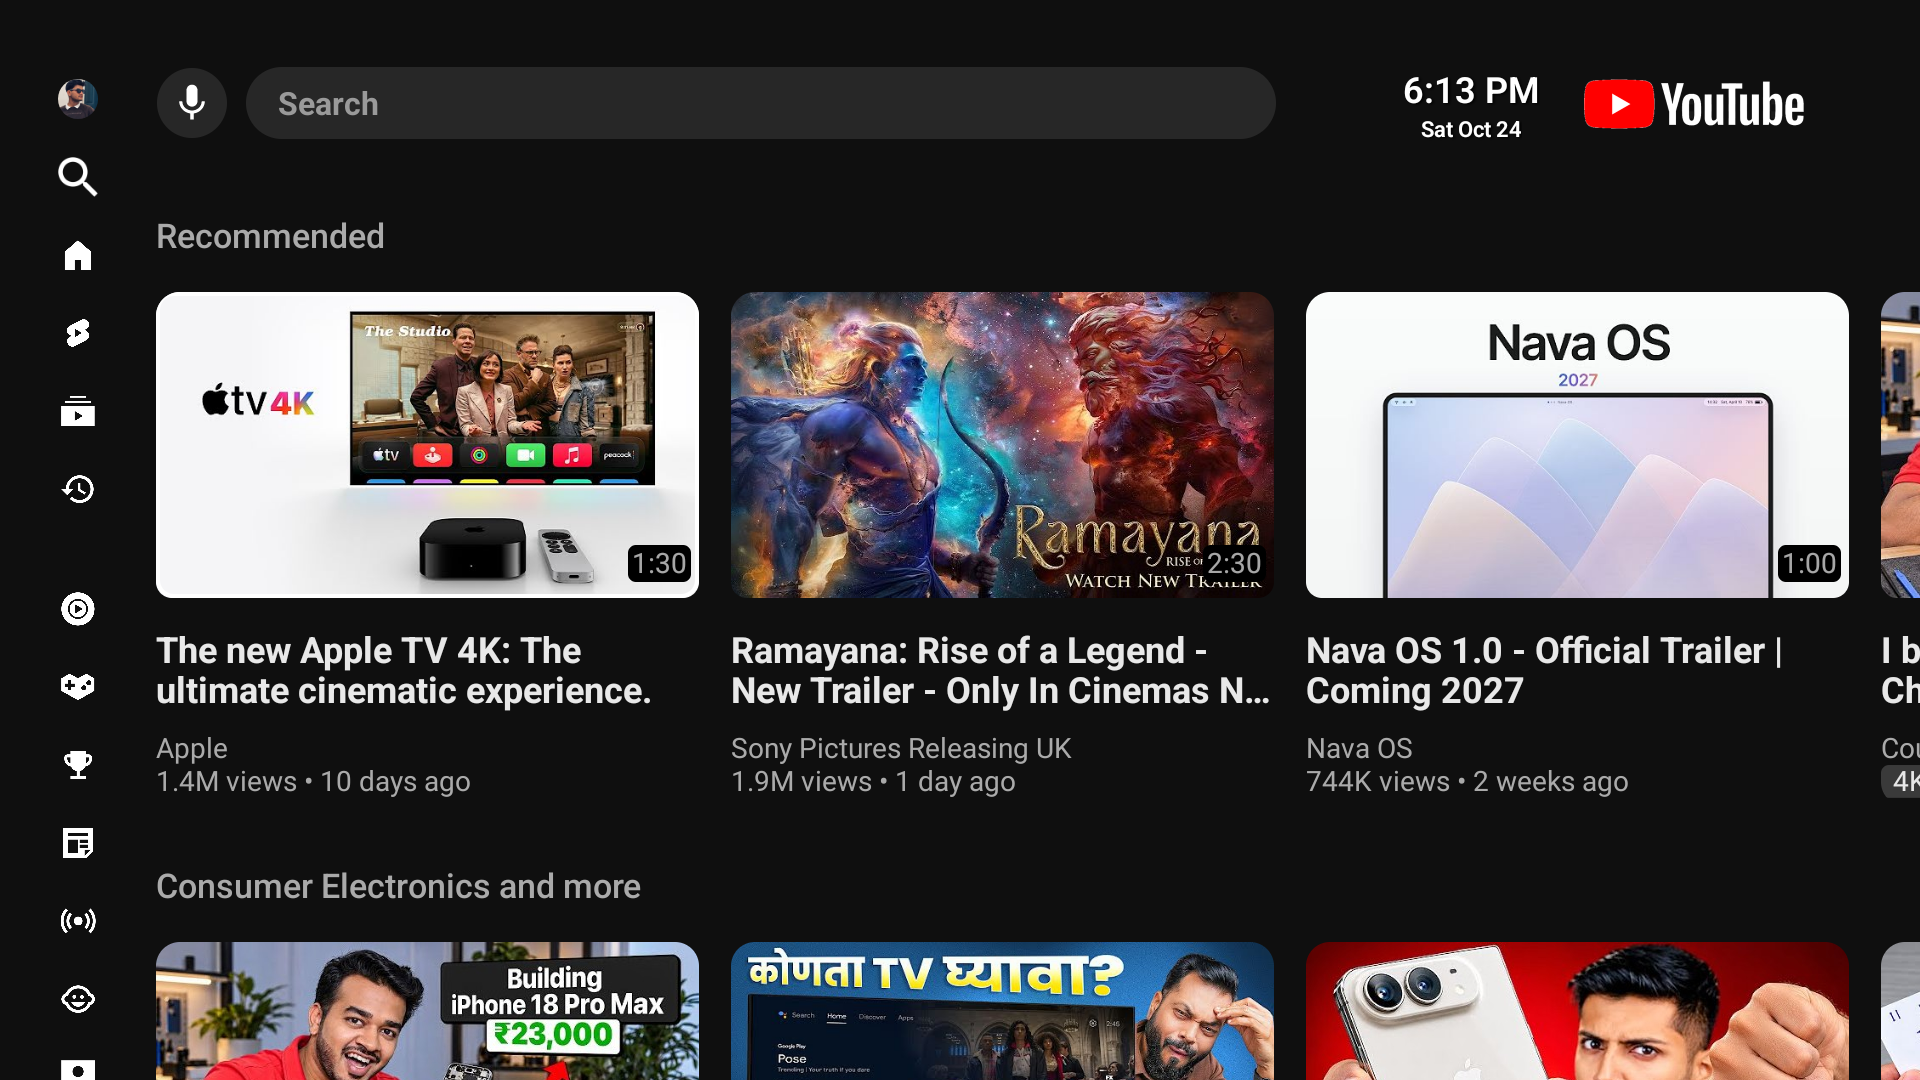
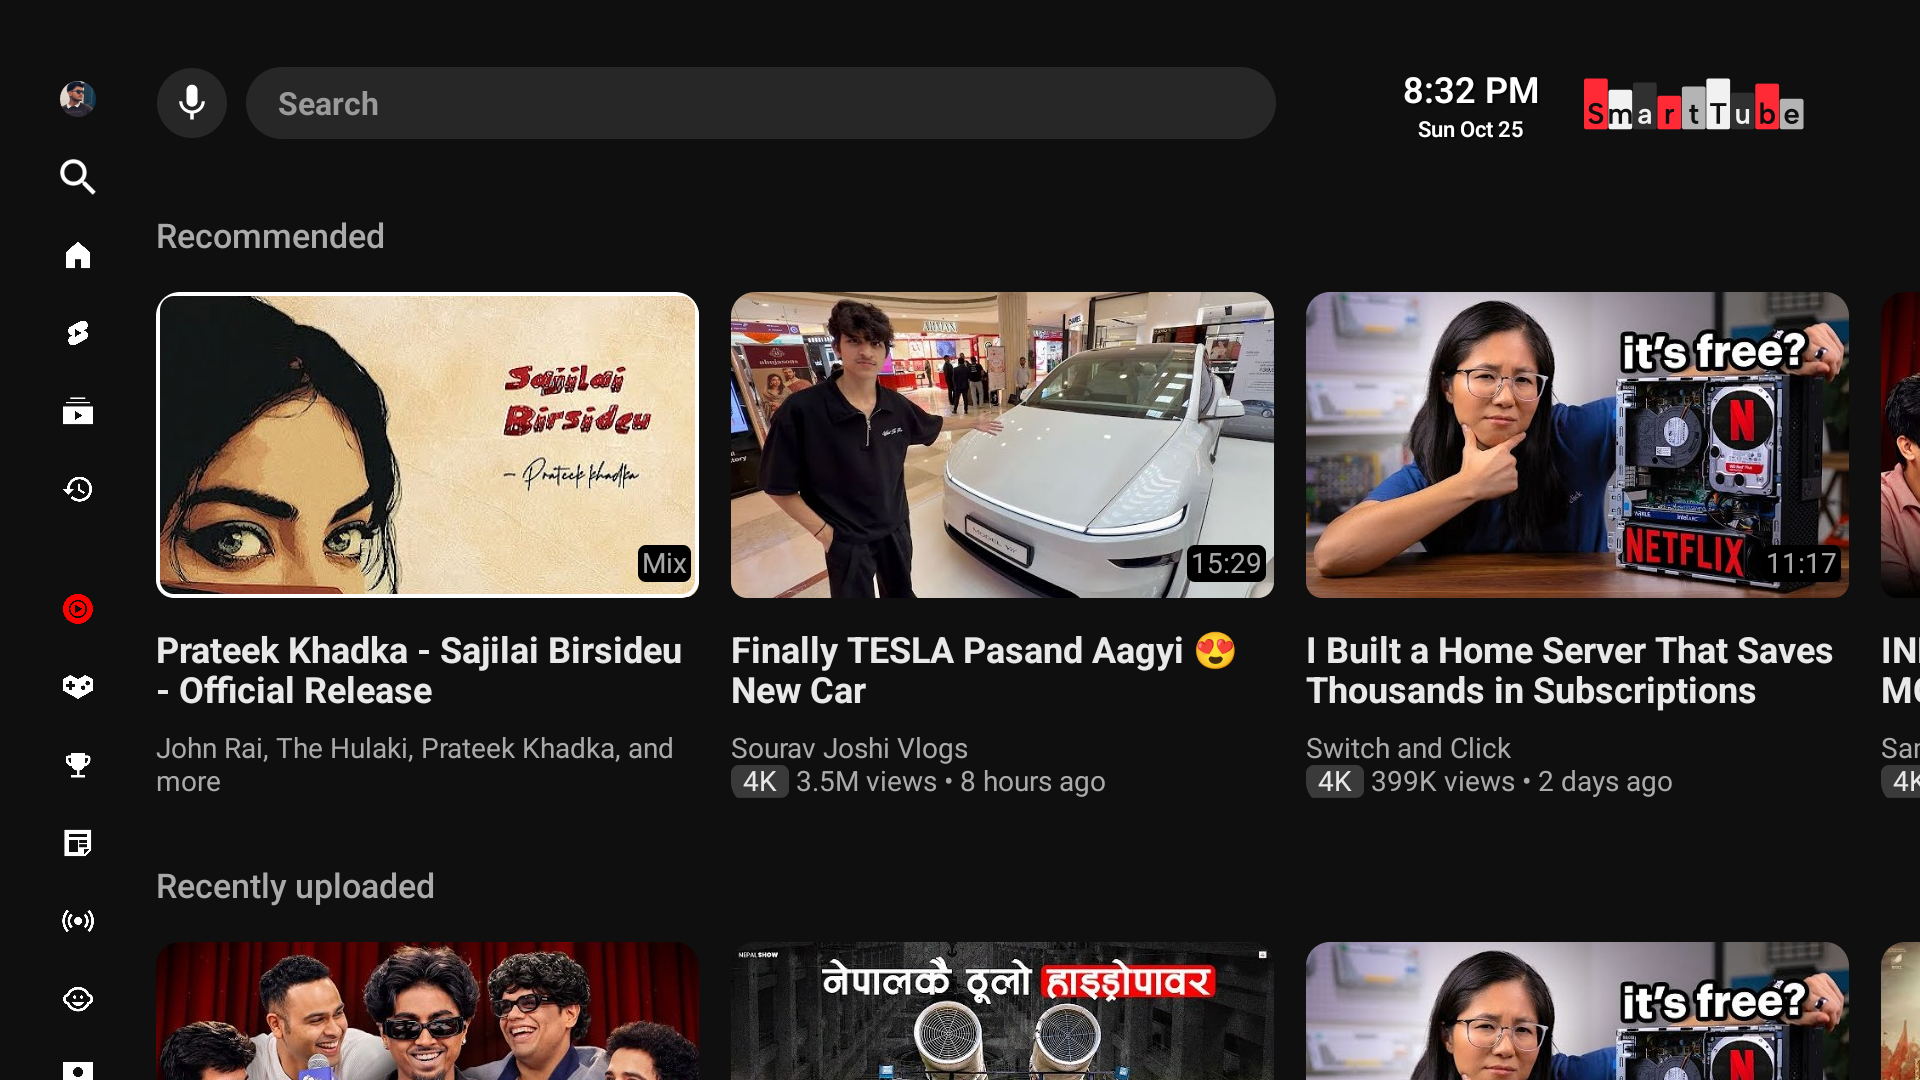
docs: update README with UI changes, branding, install table and site links

diff --git a/README.md b/README.md
@@ -1,8 +1,8 @@
-# SmartTube
+<p align="center"><img src="website/logo.svg" alt="SmartTube by Pawal" width="560"></p>
 
-A free, open-source media client for Android TV and TV boxes, with a YouTube TV style interface.
+A free, open-source media client for Android TV and TV boxes, with a YouTube TV style interface, tuned for slow hardware.
 
-Based on [yuliskov/SmartTube](https://github.com/yuliskov/SmartTube).
+**[Website](https://smarttube-tv.vercel.app)** · **[Download the APK](https://github.com/pawal-karki/SmartTube/releases/latest)** · [Original project](https://github.com/yuliskov/SmartTube)
 
 ![Home](images/ui-home.png)
 
@@ -10,39 +10,61 @@ Based on [yuliskov/SmartTube](https://github.com/yuliskov/SmartTube).
 
 **Interface**
 - Sidebar collapses to an icon rail and expands with labels and a white selection pill
-- Top bar with mic and search pill that follows the sidebar
+- Top bar with mic and search pill that follows the sidebar, hidden when the page is scrolled down
 - Borderless cards with rounded 16:9 thumbnails, white focus ring, no zoom or shadow
 - Round channel cards with avatar, name, handle and subscribers
 - Grey chips for `4K` and `Auto-dubbed` before the views line
-- Skeleton rows while a section loads instead of a spinner
-- Roboto font, YouTube branding in the `stbeta` build
-- In-app on-screen keyboard for search, with a suggestions column
+- Skeleton rows while a section, search or channel page loads, instead of a spinner
+- Smaller sidebar icons, red Music icon, reordered settings tiles with lighter icons
+- Roboto font and an in-app on-screen keyboard for search, with a suggestions column
+- Clean player: clock, quality info, remaining time and likes stay off until you turn them on in settings
 
 ![Sidebar](images/ui-sidebar.png)
 
-**Playback**
+**Playback and speed**
 - Player engine warms up 1.5 s after launch (was 10 s)
-- Playback info is prefetched for the focused home card, so opening it starts faster
+- Playback info is prefetched once you stop on a card, so opening it starts faster
 - Default quality capped at 1080p for a faster start
 - Suggestions load after the player is ready, 1.5 s start buffer
+- Smoother sidebar animation, and pages are built only once focus settles on them
+
+**Branding**
+- The `stbeta` build is named SmartTube, with its own icon, TV banner and logo (it no longer uses YouTube's)
+
+## Install
+
+1. Download a file from the [latest release](https://github.com/pawal-karki/SmartTube/releases/latest):
+
+   | File | Use it for |
+   | --- | --- |
+   | `armeabi-v7a` | Most TVs and boxes, even ones with 64-bit chips |
+   | `arm64-v8a` | 64-bit devices. If it will not install with "no matching ABIs", use the one above |
+   | `universal` | Not sure. About 40 MB, works on both |
+
+2. Copy it to the TV with a USB stick, or type the link into the Downloader app.
+3. Open it from a file manager and allow installs from unknown sources when asked.
+
+More help is on the [website](https://smarttube-tv.vercel.app/#sideload).
 
 ## Build
 
 Requires JDK 17 and the Android SDK.
 
 ```bash
-git clone --recurse-submodules <this repo>
+git clone --recurse-submodules https://github.com/pawal-karki/SmartTube.git
 cd SmartTube
 export JAVA_HOME=/path/to/jdk17
 sh ./gradlew :smarttubetv:assembleStbetaRelease
 ```
 
-APKs are written to `smarttubetv/build/outputs/apk/stbeta/release/`. Use the `arm64-v8a`, `armeabi-v7a`, `x86` or `universal` file that matches your device.
+APKs are written to `smarttubetv/build/outputs/apk/stbeta/release/`.
 
 Release builds are signed with the debug key so they install over a debug build. Replace the signing config in `smarttubetv/build.gradle` before distributing.
 
 `patches/` holds changes for the `MediaServiceCore` submodule. Apply them inside the submodule.
 
+The landing page lives in [`website/`](website) (static HTML, deployed on Vercel).
+
 ## License
 
-[MIT](LICENSE), same as upstream. See the [original project](https://github.com/yuliskov/SmartTube) for FAQ, supported devices and installation help.
+[MIT](LICENSE), same as upstream. Based on [yuliskov/SmartTube](https://github.com/yuliskov/SmartTube); see it for the FAQ, supported devices and installation help. Video thumbnails in the screenshots belong to their channels.
